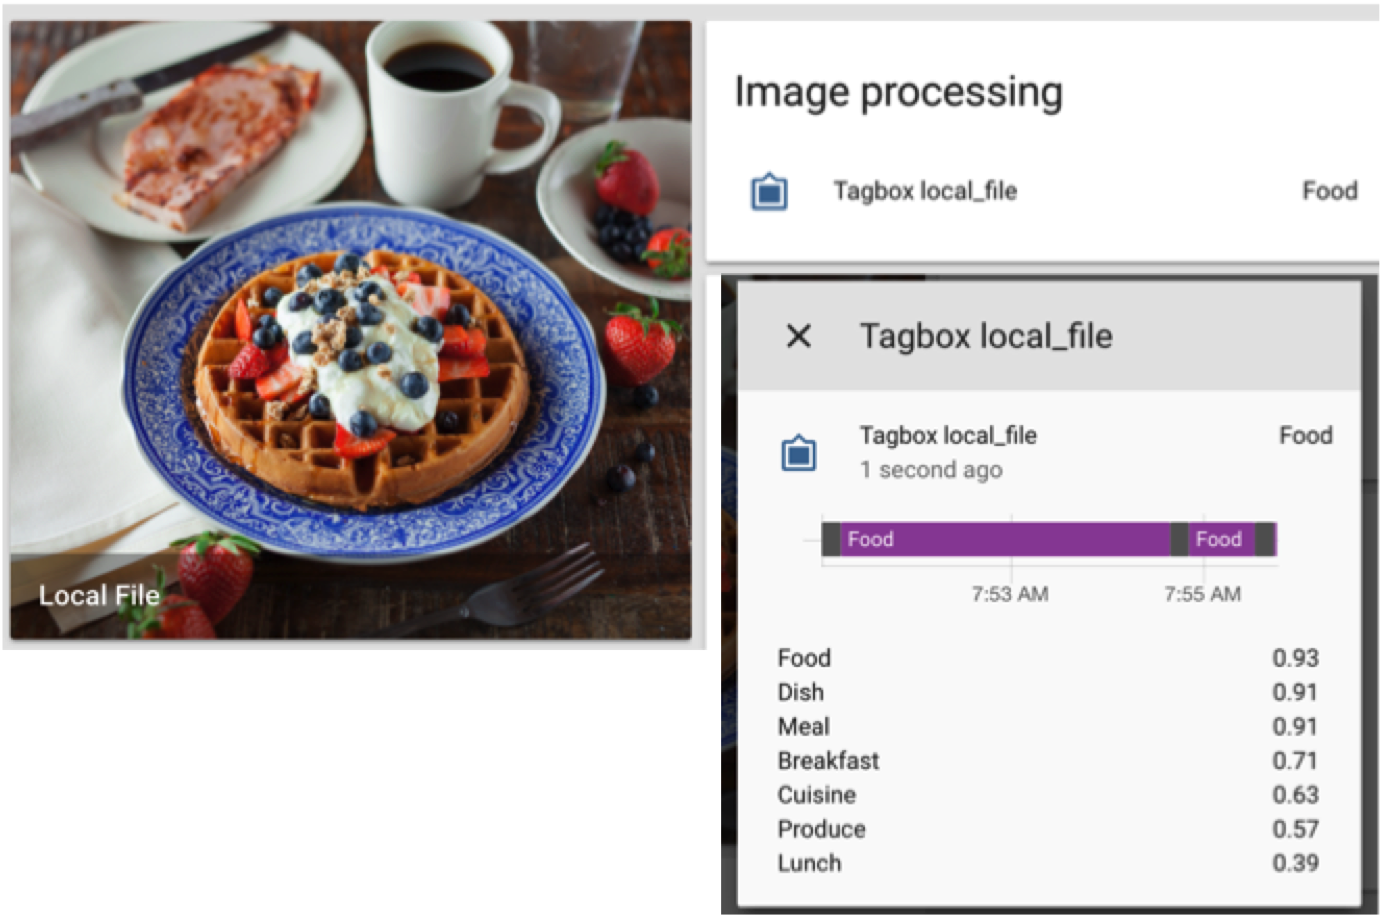
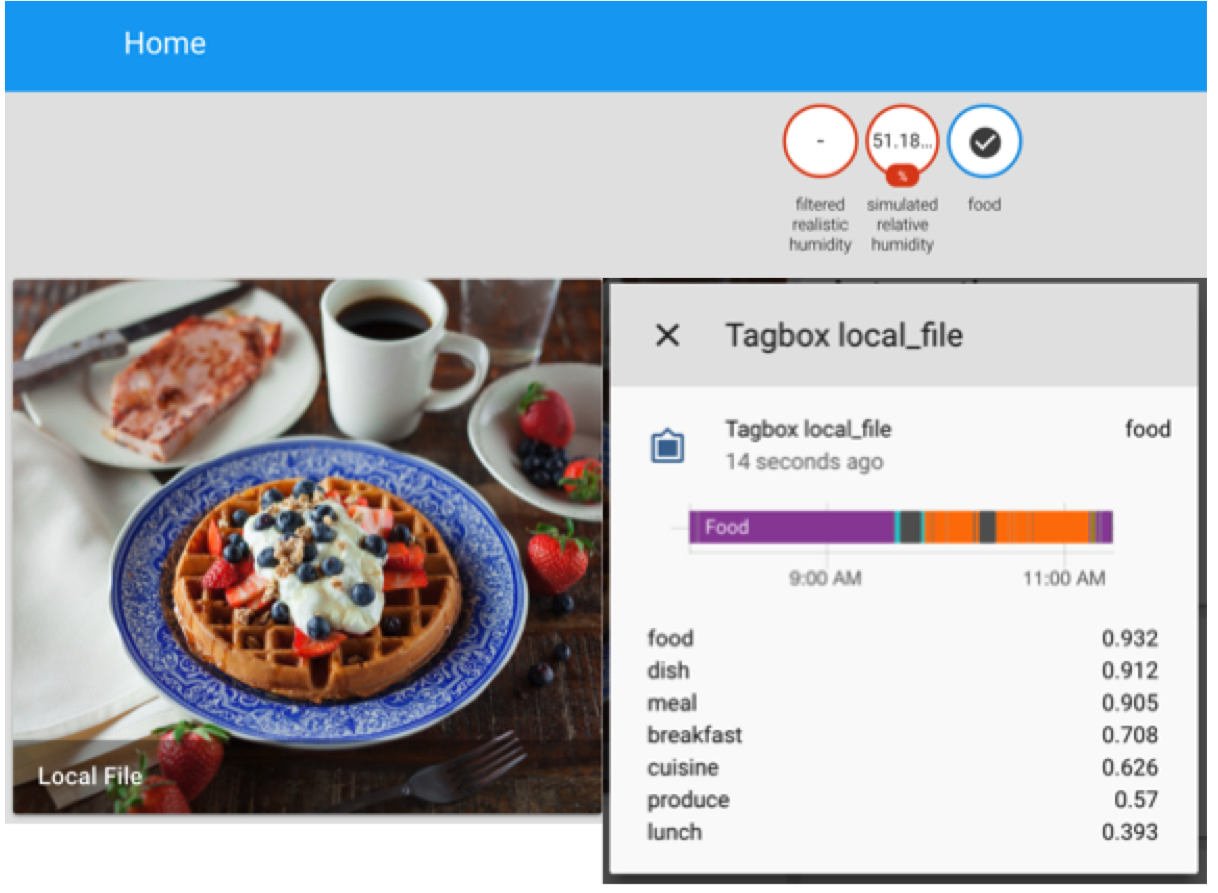
Correct updating of tags
The order that the tags dict is updated is important.
tags must be lowercase.

diff --git a/custom_components/image_processing/tagbox.py b/custom_components/image_processing/tagbox.py
@@ -67,12 +67,11 @@ class Tagbox(ImageProcessingEntity):
             ).json()
 
         if response['success']:
-            tags = self.process_tags(response['tags'])
-            tags.update(self._default_tags)
+            tags = self._default_tags
+            tags.update(self.process_tags(response['tags']))
             # If there are custom tags, overwrite default tags.
             if response['custom_tags']:
-                custom_tags = self.process_tags(response['custom_tags'])
-                tags.update(custom_tags)
+                tags.update(self.process_tags(response['custom_tags']))
 
             self._attributes = tags
             self._state = max(tags.keys(), key=(lambda k: tags[k]))
@@ -92,7 +91,7 @@ class Tagbox(ImageProcessingEntity):
     def process_tags(self, tags_data):
         """Process tags data from Facebox response."""
         tags = {
-            tag['tag']: round(tag['confidence'], ROUNDING_DECIMALS)
+            tag['tag'].lower(): round(tag['confidence'], ROUNDING_DECIMALS)
             for tag in tags_data
             }
         return tags

diff --git a/README.md b/README.md
@@ -11,25 +11,32 @@ image_processing:
     source:
       - entity_id: camera.local_file
     tags:
-      - kettle
-      - keys
+      - food
 ```
 Configuration variables:
 - **endpoint**: the ip and port of your facebox instance
 - **scan_interval**: [see the docs](https://www.home-assistant.io/docs/configuration/platform_options/#scan-interval), units seconds.
 - **source**: Must be a camera.
-- **tags**: An attribute is created for each entry in `tags`. The value of a tag is `0` if the tag is not detected, otherwise it is the confidence of detection.
+- **tags**: An attribute is created for each entry in `tags`. The value of a tag is `0` if the tag is not detected, otherwise it is the confidence of detection. Use lowercase.
 
 The use of `tags` allows the creation of [template binary sensors](https://www.home-assistant.io/components/binary_sensor.template/) to indicate the presence of a tag in an image. For example:
 ```yaml
 binary_sensor:
   - platform: template
     sensors:
-      kettle_image:
+      food:
         value_template: >-
-          {{states.image_processing.tagbox_local_file.attributes.kettle > 0.5}}
+          {{states.image_processing.tagbox_local_file.attributes.food > 0.5}}
 ```
 
 <p align="center">
 <img src="https://github.com/robmarkcole/HASS-Machinebox-Tagbox/blob/master/usage.png" width="500">
 </p>
+
+## camera
+Note that for development I am using a [file camera](https://www.home-assistant.io/components/camera.local_file/).
+```yaml
+camera:
+  - platform: local_file
+    file_path: /images/food_photo.jpg
+```
